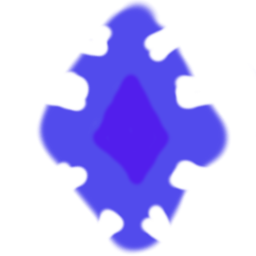
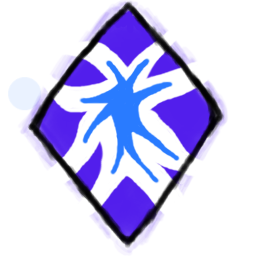
ice and plants texture updated

diff --git a/src/game/DTextures.java b/src/game/DTextures.java
@@ -20,6 +20,7 @@ public class DTextures
 	public Texture crack;
 	public Vector<Texture> projectile;
 	public Vector<Texture> enemies;
+	public Vector<Texture> shadows;
 	
 	public DTextures()
 	{
@@ -27,6 +28,7 @@ public class DTextures
 		player = new Vector<Texture>();
 		enemies = new Vector<Texture>();
 		projectile = new Vector<Texture>();
+		shadows = new Vector<Texture>();
 		
 		try
 		{
@@ -52,6 +54,10 @@ public class DTextures
 //			block.add(TextureLoader.getTexture("PNG", new FileInputStream("./img/block_door_red01.png")));
 			block.add(TextureLoader.getTexture("PNG", new FileInputStream("./img/block_ice.png")));
 			block.add(TextureLoader.getTexture("PNG", new FileInputStream("./img/block_plants.png")));
+			
+			shadows.add(TextureLoader.getTexture("PNG", new FileInputStream("./img/glow_red.png")));
+			shadows.add(TextureLoader.getTexture("PNG", new FileInputStream("./img/glow_blue.png")));
+			shadows.add(TextureLoader.getTexture("PNG", new FileInputStream("./img/glow_green.png")));
 			
 			crack = TextureLoader.getTexture("PNG", new FileInputStream("./img/crack01.png"));
 			

diff --git a/src/game/Player.java b/src/game/Player.java
@@ -425,9 +425,8 @@ public class Player extends Collidable
 		
 		GL11.glEnable(GL11.GL_TEXTURE_2D);  
 		Color.white.bind();
-
-		Darklords.textures.player.get(textureNum).bind();
 		
+		Darklords.textures.shadows.get(getActiveProjectile()).bind();	
 		GL11.glBegin(GL11.GL_QUADS);
 //		float size = 1.0f;
 		GL11.glTexCoord2f(0.f, 1.f);
@@ -439,6 +438,20 @@ public class Player extends Collidable
 		GL11.glTexCoord2f(0f, 0f);
 		GL11.glVertex2f(0.f, 0.f);
 		GL11.glEnd();
+
+		Darklords.textures.player.get(textureNum).bind();	
+		GL11.glBegin(GL11.GL_QUADS);
+//		float size = 1.0f;
+		GL11.glTexCoord2f(0.f, 1.f);
+		GL11.glVertex2f(0.f, getSizeY());
+		GL11.glTexCoord2f(1.f, 1.f);
+		GL11.glVertex2f(getSizeX(), getSizeY());
+		GL11.glTexCoord2f(1.f, 0.f);
+		GL11.glVertex2f(getSizeX(), 0.f);
+		GL11.glTexCoord2f(0f, 0f);
+		GL11.glVertex2f(0.f, 0.f);
+		GL11.glEnd();
+		
 		GL11.glDisable(GL11.GL_TEXTURE_2D);
 	}
 
